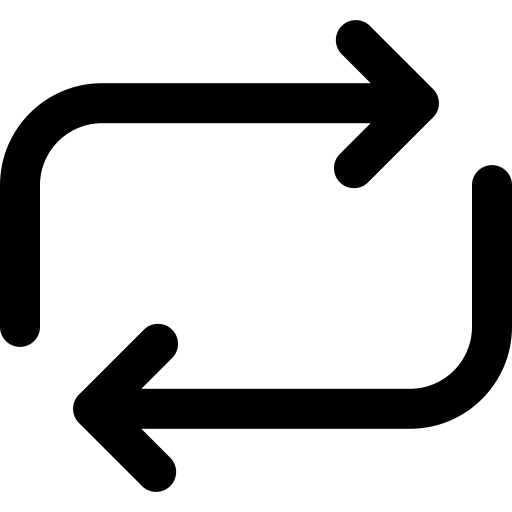
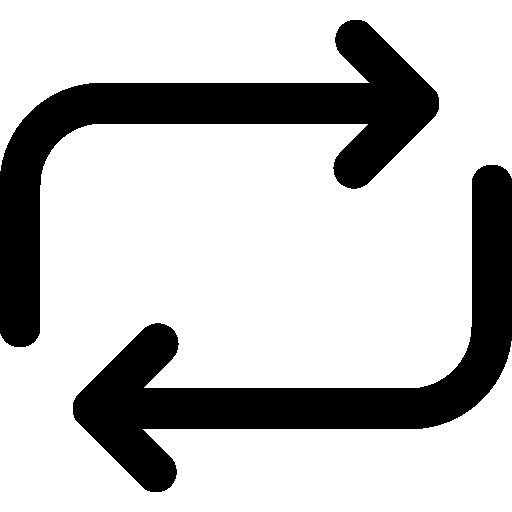
visual indicator whether shuffle is on and repeat is on

diff --git a/MusikProgramm/MusikProgramm/PlayPauseSkip.xaml.cs b/MusikProgramm/MusikProgramm/PlayPauseSkip.xaml.cs
@@ -26,18 +26,28 @@ namespace MusikProgramm
 
         private ImageBrush imageBrushPlay = new ImageBrush();
         private ImageBrush imageBrushPause = new ImageBrush();
+        private ImageBrush imageBrushRepeat = new ImageBrush();
+        private ImageBrush imageBrushRepeatOn = new ImageBrush();
+        private ImageBrush imageBrushShuffle = new ImageBrush();
+        private ImageBrush imageBrushShuffleOn = new ImageBrush();
+
+
         public PlayPauseSkip()
         {
             InitializeComponent();
+            
+            imageBrushPlay = InitializeImageBrush(imageBrushPlay, "images//play.png");
 
-            imageBrushPlay.ImageSource = new BitmapImage(new Uri("images//play.png", UriKind.Relative));
-            imageBrushPause.ImageSource = new BitmapImage(new Uri("images//pause.png", UriKind.Relative));
+            imageBrushPause = InitializeImageBrush(imageBrushPause, "images//pause.png");
 
-            imageBrushPlay.Stretch = Stretch.Uniform;
-            imageBrushPause.Stretch = Stretch.Uniform;
+            imageBrushRepeat = InitializeImageBrush(imageBrushRepeat, "images//repeat_thin.png");
 
-            imageBrushPlay.TileMode = TileMode.None;
-            imageBrushPause.TileMode = TileMode.None;
+            imageBrushRepeatOn = InitializeImageBrush(imageBrushRepeatOn, "images//repeat_thin_on.png");
+
+            imageBrushShuffle = InitializeImageBrush(imageBrushShuffle, "images//shuffle_thin.png");
+
+            imageBrushShuffleOn = InitializeImageBrush(imageBrushShuffleOn, "images//shuffle_thin_on.png");
+
         }
 
         private void ButtonPlayPause_Click(object sender, RoutedEventArgs e)
@@ -67,11 +77,13 @@ namespace MusikProgramm
                 {
                     mainWindow.shuffle = true;
                     mainWindow.currentPlaylist.Shuffle();
+                    ButtonShuffle.Background = imageBrushShuffleOn;
                 }
                 else
                 {
                     mainWindow.shuffle = false;
                     mainWindow.currentPlaylist.ResetShuffleSort();
+                    ButtonShuffle.Background = imageBrushShuffle;
                 }
             }
         }
@@ -114,11 +126,13 @@ namespace MusikProgramm
                 {
                     mainWindow.currentPlaylist.Repeat = true;
                     ButtonRepeat.Background = Brushes.Green;
+                    ButtonRepeat.Background = imageBrushRepeatOn;
                 }
                 else
                 {
                     mainWindow.currentPlaylist.Repeat = false;
                     ButtonRepeat.Background = null;
+                    ButtonRepeat.Background = imageBrushRepeat;
                 }
             }
         }
@@ -126,6 +140,14 @@ namespace MusikProgramm
         public void ResetAfterPlaylistSwitch()
         {
             ButtonPlayPause.Background = imageBrushPause;
+        }
+
+        private ImageBrush InitializeImageBrush(ImageBrush imageBrush, String pathImage)
+        {
+            imageBrush.Stretch = Stretch.Uniform;
+            imageBrush.TileMode = TileMode.None;
+            imageBrush.ImageSource = new BitmapImage(new Uri(pathImage, UriKind.Relative));
+            return imageBrush;
         }
     }
 }

diff --git a/MusikProgramm/MusikProgramm/WindowPlaylist.xaml.cs b/MusikProgramm/MusikProgramm/WindowPlaylist.xaml.cs
@@ -22,11 +22,13 @@ namespace MusikProgramm
         private Playlist playlist;
         public MainWindow mainWindow;
 
-        public WindowPlaylist(Playlist playlist)
+        public WindowPlaylist(Playlist playlist, MainWindow mainWindow)
         {
             InitializeComponent();
 
             this.playlist = playlist;
+            this.mainWindow = mainWindow;
+            UserControlPlayPauseSkip.mainWindow = mainWindow;
             LabelName.Content = playlist.Name;
 
             foreach (Song song in playlist.SongListSorted)

diff --git a/MusikProgramm/MusikProgramm/MainWindow.xaml.cs b/MusikProgramm/MusikProgramm/MainWindow.xaml.cs
@@ -97,7 +97,7 @@ namespace MusikProgramm
 
             if (currentPlaylist != null && playlistWindow == null)
             {
-                playlistWindow = new WindowPlaylist(currentPlaylist);
+                playlistWindow = new WindowPlaylist(currentPlaylist, this);
                 playlistWindow.mainWindow = this;
                 playlistWindow.Show();
                 playlistWindow.Closed += PlaylistWindow_Closed;
